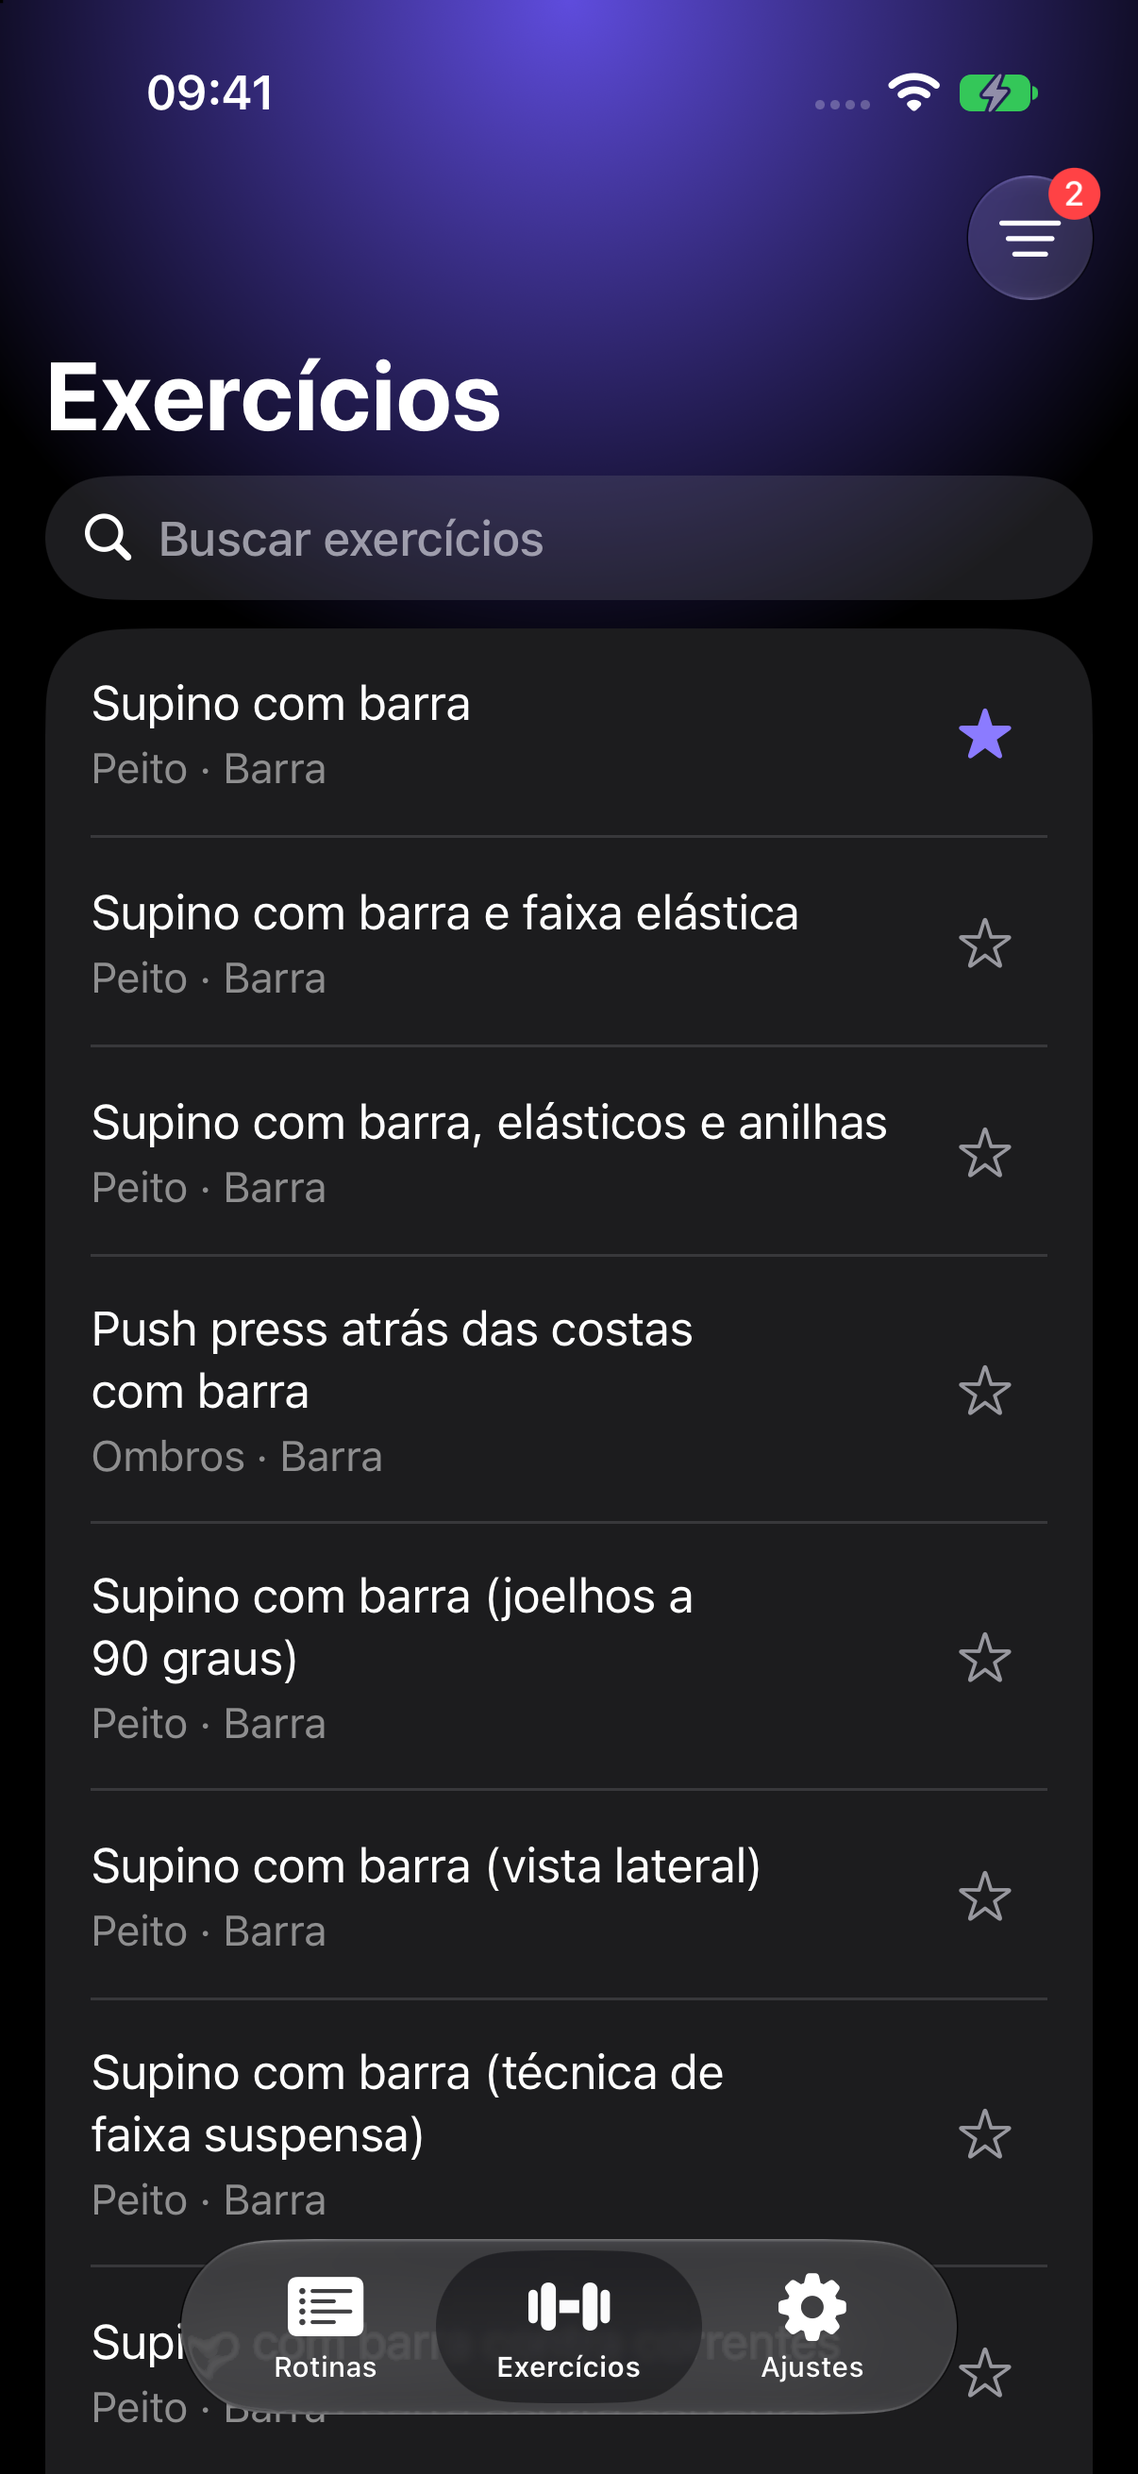
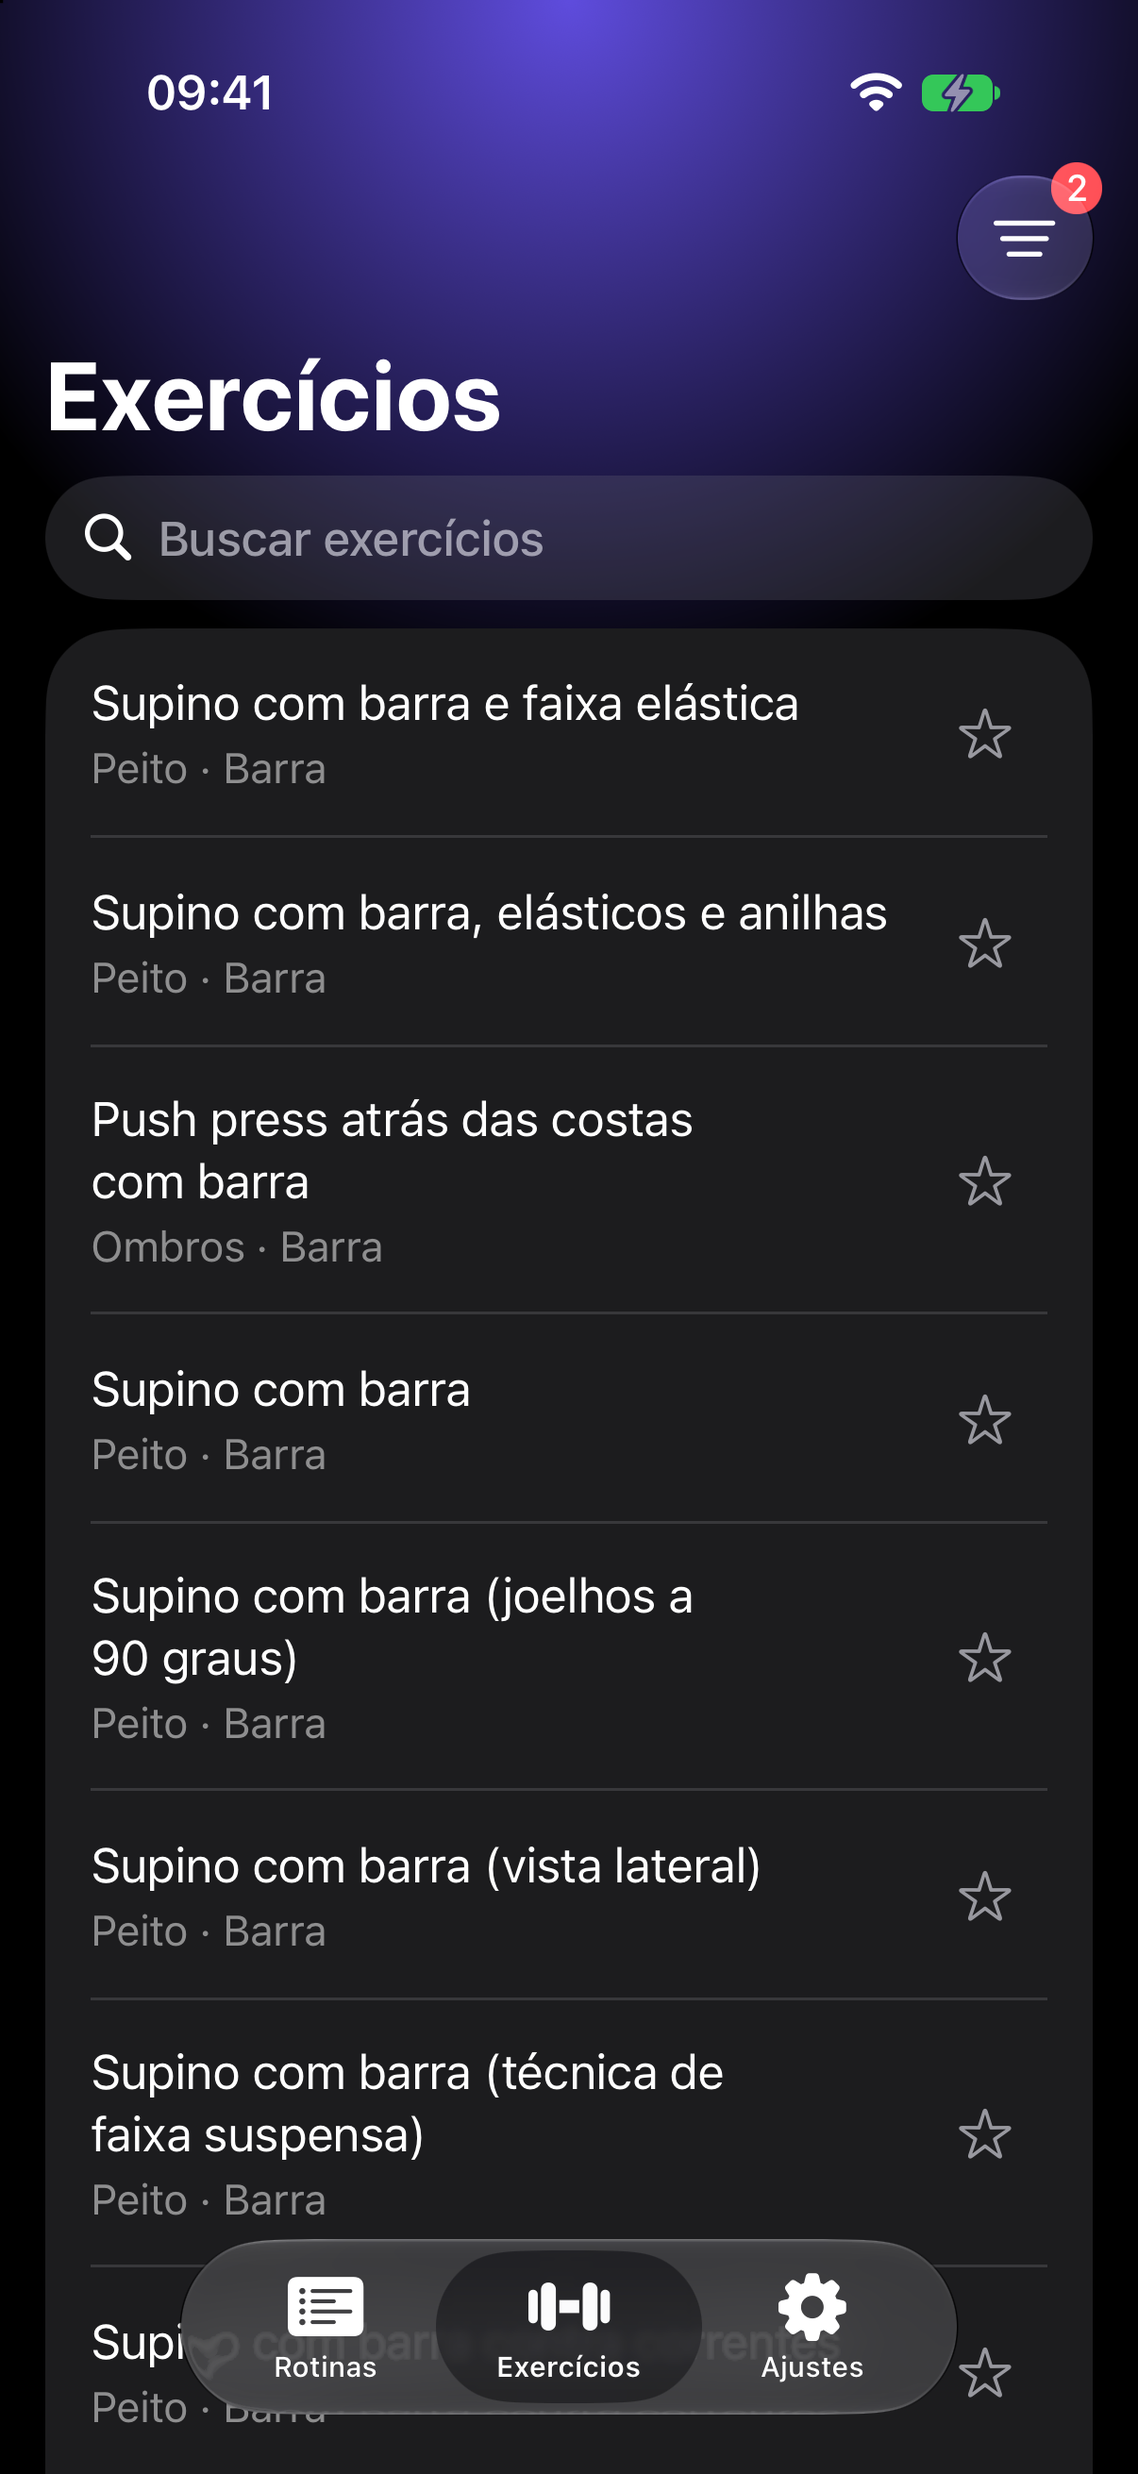
Os filtros falam a contagem ao VoiceOver
O selo do botão dos filtros agora é desenhado no app, no vermelho do
sistema e fora da acessibilidade: o .badge da Apple tomava o valor do
botão, e o VoiceOver ouvia "Filtros, 2 itens". O botão diz "Nenhum filtro
ligado", "Um filtro ligado" ou "2 filtros ligados", com o texto pronto no
LibraryModel e preso no teste.

Uma estrela tocada fica como a pessoa deixou até o catálogo de depois da
ação dela chegar: o refresh() de uma estrela anterior, lido antes, não a
apaga mais. Um teste novo prende isso.

Os exemplos do botão de barra passam a dizer "Pronto" no comentário do
HexGymApp e no cores.md, e o print 04 mostra o selo novo.

A lista em lotes foi medida e ficou de fora: o primeiro toque na aba
custou o mesmo (uns 200 ms no simulador, de montar a tela) e a rolagem
contínua piorou muito a cada lote.

diff --git a/apple/HexGym/Library/LibraryModel.swift b/apple/HexGym/Library/LibraryModel.swift
@@ -15,6 +15,9 @@
 // ação que mudou o documento (o revision do AppModel sobe) pede o catálogo de novo (refresh), para a
 // estrela de um favorito marcado em outra tela aparecer, e a ordem fica a mesma até a próxima busca.
 //
+// Uma estrela tocada fica como a pessoa deixou até a ação dela chegar ao motor e o catálogo de depois
+// chegar (pending): um refresh() que leu o catálogo antes dela não apaga a estrela (QA do PR #112).
+//
 // Escolha recomendada, com a delegação do Lipe de 03/11/2026: a estrela muda na hora e a linha fica
 // onde está; os favoritos sobem para o topo na próxima busca, na próxima troca de filtro ou quando a
 // lista abre de novo, para a linha não pular de baixo do dedo. Os nomes começam com letra maiúscula (o
@@ -49,6 +52,10 @@ import os
     query.muscles.count + query.equipment.count + query.categories.count + (query.favouritesOnly ? 1 : 0)
   }
 
+  // O valor do botão dos filtros para o VoiceOver, pronto: "Nenhum filtro ligado", "Um filtro ligado",
+  // "2 filtros ligados".
+  var filtersValue: String { LibraryText.filtersOn(activeFilterCount, locale: locale) }
+
   // O revision do documento, lido pela tela para pedir o catálogo de novo depois de uma ação.
   var documentRevision: Int { revision() }
 
@@ -66,6 +73,17 @@ import os
   @ObservationIgnored private var catalogueGeneration = 0
   // O catálogo já chegou uma vez. Antes dele, uma busca pedida espera o load(), que busca o de agora.
   @ObservationIgnored private var hasCatalogue = false
+  // As estrelas tocadas cuja ação ainda não chegou ao catálogo: o valor que a pessoa deixou, o toque
+  // (para um segundo toque na mesma estrela valer sobre o primeiro) e, depois da ação, o catálogo pedido
+  // por último até ali. Um catálogo pedido depois dele já traz a ação, e a estrela sai daqui.
+  @ObservationIgnored private var pending: [String: Pending] = [:]
+  @ObservationIgnored private var taps = 0
+
+  private struct Pending {
+    let on: Bool
+    let tap: Int
+    var doneAt: Int?
+  }
 
   private static let logger = Logger(subsystem: "app.hexgym", category: "library")
 
@@ -131,13 +149,20 @@ import os
     }
   }
 
-  // A estrela muda na hora; se a ação falhar, ela volta, e o erro vai para o log.
+  // A estrela muda na hora; se a ação falhar, ela volta, e o erro vai para o log. Até o catálogo de
+  // depois da ação chegar, a estrela fica como a pessoa deixou (pending).
   func toggleFavourite(_ id: String) async {
     guard let row = rows[id] else { return }
+    taps += 1
+    let tap = taps
+    pending[id] = Pending(on: !row.favourite, tap: tap)
     replace(row.favouriting(!row.favourite))
     do {
       _ = try await perform(.toggleFavourite(id: id))
+      if pending[id]?.tap == tap { pending[id]?.doneAt = catalogueGeneration }
     } catch {
+      guard pending[id]?.tap == tap else { return }
+      pending[id] = nil
       replace(row)
       Self.logger.error("não deu para favoritar (\(String(describing: type(of: error)), privacy: .public)): \(String(describing: error), privacy: .private)")
     }
@@ -154,7 +179,15 @@ import os
       let facets = try await engine.facets()
       let built = await LibraryBuild.make(list, facets: facets, text: LibraryText(locale: locale), language: language)
       guard mine == catalogueGeneration else { return }
-      (summaries, rows, options) = (built.summaries, built.rows, built.options)
+      var fresh = built.rows
+      for (id, star) in pending {
+        if let done = star.doneAt, mine > done {
+          pending[id] = nil
+        } else {
+          fresh[id] = fresh[id]?.favouriting(star.on)
+        }
+      }
+      (summaries, rows, options) = (built.summaries, fresh, built.options)
       hasCatalogue = true
     } catch {
       guard mine == catalogueGeneration else { return }
@@ -257,6 +290,15 @@ nonisolated struct LibraryText: Sendable {
 
   @MainActor init(locale: Locale) {
     favourite = AppText.text("favorite", locale: locale)
+  }
+
+  // O valor do botão dos filtros para o VoiceOver.
+  @MainActor static func filtersOn(_ count: Int, locale: Locale) -> String {
+    switch count {
+    case 0: AppText.text("No filters on", locale: locale)
+    case 1: AppText.text("One filter on", locale: locale)
+    default: String(format: AppText.text("%lld filters on", locale: locale), locale: locale, count)
+    }
   }
 }
 

diff --git a/apple/HexGym/Library/LibraryView.swift b/apple/HexGym/Library/LibraryView.swift
@@ -10,12 +10,16 @@
 //
 // Para a rolagem dos 5.632 (seção 8.13): a List é preguiçosa, as linhas não têm imagem nem conta no
 // body, e cada linha é uma view só, de tipo fixo (ExerciseRow), para a List não montar todas para
-// contar. O fundo da pilha fica transparente, para o brilho da raiz aparecer atrás, como nos Ajustes.
+// contar. Mostrar em lotes (como o shown da Library.jsx do openGym) foi medido no QA do PR #112 e não
+// entrou: o primeiro toque na aba custou o mesmo (uns 200 ms no simulador, de montar a tela, e não as
+// linhas), e a rolagem contínua piorou muito a cada lote que entrava. O fundo da pilha fica
+// transparente, para o brilho da raiz aparecer atrás, como nos Ajustes.
 //
 // Escolha recomendada, com a delegação do Lipe de 03/11/2026: a escolha 6 do plano (sem miniatura, o
 // nome, o grupo principal e o equipamento, os favoritos primeiro), a contagem dos filtros no selo do
 // botão, e o deslizar para favoritar no índigo do sistema, onde o texto branco do botão é legível em
-// todos os temas.
+// todos os temas. O selo é desenhado aqui, e não o .badge da Apple: o .badge vira o valor do botão
+// para o VoiceOver ("Filtros, 2 itens") por cima do nosso ("2 filtros ligados") (QA do PR #112).
 import HexDesign
 import HexEngine
 import SwiftUI
@@ -26,7 +30,6 @@ struct LibraryView: View {
   var selection: Binding<[String]>? = nil
   var onAdd: (([String]) -> Void)? = nil
 
-  @Environment(\.locale) private var locale
   @State private var showsFilters = false
   // O que os argumentos de início pedem roda uma vez só, mesmo que a aba volte.
   @State private var ranLaunch = false
@@ -74,10 +77,16 @@ struct LibraryView: View {
   @ToolbarContentBuilder private var toolbar: some ToolbarContent {
     ToolbarItem(placement: .topBarTrailing) {
       Button { showsFilters = true } label: {
-        Label("Filters", systemImage: "line.3.horizontal.decrease")
+        // Um ZStack, e não um Label: com Label ou Image, a barra desenha só o símbolo e perde o selo.
+        ZStack {
+          Image(systemName: "line.3.horizontal.decrease")
+            .overlay(alignment: .topTrailing) {
+              if model.activeFilterCount > 0 { FilterBadge(count: model.activeFilterCount) }
+            }
+        }
       }
-      .badge(model.activeFilterCount)
-      .accessibilityValue(Text(verbatim: LibraryText.filtersOn(model.activeFilterCount, locale: locale)))
+      .accessibilityLabel(Text("Filters"))
+      .accessibilityValue(Text(verbatim: model.filtersValue))
     }
     if let selection {
       ToolbarItem(placement: .confirmationAction) {
@@ -163,15 +172,25 @@ struct LibraryView: View {
   }
 }
 
-extension LibraryText {
-  // O valor do botão dos filtros para o VoiceOver: "Nenhum filtro ligado", "Um filtro ligado", "2
-  // filtros ligados".
-  static func filtersOn(_ count: Int, locale: Locale) -> String {
-    switch count {
-    case 0: AppText.text("No filters on", locale: locale)
-    case 1: AppText.text("One filter on", locale: locale)
-    default: String(format: AppText.text("%lld filters on", locale: locale), locale: locale, count)
-    }
+// O selo da contagem no botão dos filtros, no desenho do .badge da Apple: o número em branco no
+// vermelho do sistema, crescendo com o tamanho do texto. Fica fora da acessibilidade: o botão diz a
+// contagem no valor dele.
+private struct FilterBadge: View {
+  let count: Int
+  @ScaledMetric(relativeTo: .footnote) private var size: CGFloat = 18
+
+  var body: some View {
+    Text(count, format: .number)
+      .font(.footnote.weight(.medium))
+      .monospacedDigit()
+      .foregroundStyle(.white)
+      .padding(.horizontal, size / 4)
+      .frame(minWidth: size, minHeight: size)
+      .background(Capsule().fill(Color(.systemRed)))
+      .fixedSize()
+      // O centro do selo na borda do botão de vidro, em cima à direita, onde o .badge da Apple ficava.
+      .offset(x: size * 0.75, y: -size)
+      .accessibilityHidden(true)
   }
 }
 

diff --git a/apple/HexGymTests/LibraryModelTests.swift b/apple/HexGymTests/LibraryModelTests.swift
@@ -1,9 +1,10 @@
 // Os testes da biblioteca sem tela (Task 9 do plano da fase 2), com o motor de verdade e o documento do
 // primeiro uso em português do Brasil: o catálogo inteiro, a busca "supino", a última busca que vale,
-// a contagem dos filtros, o estado vazio e o rótulo do VoiceOver de uma linha. O teste do rótulo prende
-// o Foco da revisão 5: um nome com 70 letras vai inteiro no rótulo, sem corte. O Foco da revisão 2 (a
-// busca sem acento e nos dois idiomas) é do motor (library.test.mjs); aqui, a busca "supino" passa pelo
-// modelo da tela.
+// a contagem dos filtros (e o valor que o VoiceOver lê no botão), o estado vazio, o rótulo do VoiceOver
+// de uma linha e a estrela que não pisca (a estrela e o valor do botão, do QA do PR #112). O teste do
+// rótulo prende o Foco da revisão 5: um nome com 70 letras vai inteiro no rótulo, sem corte. O Foco da
+// revisão 2 (a busca sem acento e nos dois idiomas) é do motor (library.test.mjs); aqui, a busca
+// "supino" passa pelo modelo da tela.
 //
 // O alvo roda dentro do app (TEST_HOST) e lê os textos do catálogo do app.
 //
@@ -81,9 +82,11 @@ import Testing
   @Test func aChestFilterCountsAsOne() async throws {
     let (model, _) = try await loaded()
     var query = LibraryQuery()
+    #expect(model.filtersValue == "Nenhum filtro ligado")
     query.muscles = ["chest"]
     model.update(query: query)
     #expect(model.activeFilterCount == 1)
+    #expect(model.filtersValue == "Um filtro ligado")
     await model.settled()
     #expect(!model.results.isEmpty)
     #expect(model.results.count < 5632)
@@ -95,6 +98,7 @@ import Testing
     query.favouritesOnly = true
     model.update(query: query)
     #expect(model.activeFilterCount == 4)
+    #expect(model.filtersValue == "4 filtros ligados")
   }
 
   @Test func aSearchWithNoResultLeavesTheEmptyState() async throws {
@@ -122,4 +126,47 @@ import Testing
     let english = LibraryRow(summary, names: names, text: LibraryText(locale: Locale(identifier: "en-US")), language: portuguese)
     #expect(english.spoken.hasSuffix(", Peito, Haltere, favorite"))
   }
+
+  // Duas estrelas tocadas bem depressa: o refresh() da primeira lê o catálogo antes de a ação da segunda
+  // chegar ao motor. A segunda estrela não pode apagar nesse meio tempo.
+  @Test func aSecondStarStaysOnWhileTheFirstRefreshReadsTheCatalogue() async throws {
+    let engine = HexEngine(language: "pt-BR")
+    _ = try await engine.load()
+    _ = try await engine.freshDocument()
+    let box = ModelBox()
+    let model = LibraryModel(engine: engine, locale: portuguese) { action in
+      if case .toggleFavourite(id: "0289") = action, let model = box.model, !box.raced {
+        box.raced = true
+        await model.refresh()
+        #expect(model.row("0289")?.favourite == true)
+        #expect(model.row("0025")?.favourite == true)
+      }
+      return try await engine.apply(action)
+    }
+    box.model = model
+    await model.load()
+    #expect(model.row("0289")?.favourite == false)
+    await model.toggleFavourite("0025")
+    await model.toggleFavourite("0289")
+    #expect(model.row("0289")?.favourite == true)
+    #expect(box.raced)
+    // O catálogo de depois das duas ações traz as duas estrelas do motor.
+    await model.refresh()
+    #expect(model.row("0025")?.favourite == true)
+    #expect(model.row("0289")?.favourite == true)
+    // Um toque de novo apaga, e o catálogo de depois confirma.
+    await model.toggleFavourite("0289")
+    await model.refresh()
+    #expect(model.row("0289")?.favourite == false)
+  }
+}
+
+// O modelo, para a ação do teste da estrela chamar o refresh() dele no meio do caminho.
+@MainActor private final class ModelBox {
+  var model: LibraryModel?
+  var raced = false
+}
+
+private extension LibraryModel {
+  func row(_ id: String) -> LibraryRow? { results.first { $0.id == id } }
 }

diff --git a/apple/HexGym/HexGymApp.swift b/apple/HexGym/HexGymApp.swift
@@ -81,9 +81,9 @@ private struct ThemedRoot<Content: View>: View {
 }
 
 // O tint dos componentes da Apple na raiz: branco. O tint vira a cor do texto dos botões de barra (o
-// "OK" de uma tela que sobe, por exemplo), dos alertas e dos menus, que ficam sobre o vidro das barras
-// (#3A3A3C), onde o accent não é conferido: no QA da PR #85, o "OK" no accent mediu 3,45:1 no
-// Ultravioleta. Pela regra da #71, o texto na cor do tema só fica sobre o fundo da tela e sobre o
+// "Pronto" de uma tela que sobe, por exemplo), dos alertas e dos menus, que ficam sobre o vidro das
+// barras (#3A3A3C), onde o accent não é conferido: no QA da PR #85, esse botão no accent mediu 3,45:1
+// no Ultravioleta. Pela regra da #71, o texto na cor do tema só fica sobre o fundo da tela e sobre o
 // cartão do sistema. O accent entra só onde é pedido: nos componentes do HexDesign, que leem a paleta;
 // nas chaves, pelo HexSwitchStyle abaixo, porque nelas o tint é o preenchimento, e não texto; e onde
 // uma tela o põe de propósito.

diff --git a/docs/hexgym/design-system/cores.md b/docs/hexgym/design-system/cores.md
@@ -46,7 +46,7 @@ Esta é a regra de uso da #71, com ou sem alto contraste:
 - O texto na cor do tema (`accent`) fica **só sobre o fundo da tela e sobre o cartão do sistema**: #1C1C1E, ou #242426 com Aumentar Contraste.
 - Os cartões dentro de uma tela que sobe de baixo (o cinza elevado do sistema) levam **texto branco ou nos cinzas do sistema**, nunca na cor do tema.
 - No cartão de vidro, o texto vai só em branco: no simulador, o cinza secundário do sistema ficou em 3,1 a 3,2:1 sobre o vidro, e o branco fica em pelo menos 8,54:1 nos quatro temas, no pior pixel do vidro (o Giz & Ferro, sob o brilho; veja [componentes.md](componentes.md#o-cartão-de-vidro)).
-- Os botões de barra (o "OK" de uma tela que sobe, por exemplo), os alertas e os menus ficam em branco: o app põe o tint branco na raiz, e o accent só onde é pedido (as chaves, os componentes do HexDesign). O "OK" no accent, sobre o vidro da barra (#3A3A3C), mediu 3,45:1 no Ultravioleta; em branco, mede pelo menos 11,16:1, e 16,28:1 com Aumentar Contraste, nos quatro temas.
+- Os botões de barra (o "Pronto" de uma tela que sobe, por exemplo), os alertas e os menus ficam em branco: o app põe o tint branco na raiz, e o accent só onde é pedido (as chaves, os componentes do HexDesign). Esse botão no accent, sobre o vidro da barra (#3A3A3C), mediu 3,45:1 no Ultravioleta; em branco, mede pelo menos 11,16:1, e 16,28:1 com Aumentar Contraste, nos quatro temas.
 - No Watch, a linha da lista do sistema (#222223, ou #272728 com Aumentar Contraste) não é um desses fundos. Por isso, na galeria do Watch, os componentes ficam sobre o preto, sem o fundo da linha, e o texto das linhas fica em branco (pelo menos 15,90:1, e 14,92:1 com Aumentar Contraste). A exceção é o preenchimento das chaves liga e desliga, que não é texto: no destaque, contra a linha, mediu pelo menos 5,77:1 (Ultravioleta) e 6,77:1 com Aumentar Contraste (Cobre). No Giz & Ferro, o botão branco da chave fica sobre o preenchimento #F2EFE9: é o desenho da Apple.
 - O título da navegação no Watch: o cinza do sistema ficava em 2,9:1 sobre o brilho, e por isso a galeria do Watch põe o título em branco: no alto da galeria, pelo menos 7,59:1, e 14,20:1 com Aumentar Contraste. Quando a lista rola por baixo da barra do sistema, o conteúdo que passa atrás do título pode baixar o contraste até 2,86:1 (3,81:1 com Aumentar Contraste), no pior pixel. É o desenho da barra do Watch, que esmaece o que passa por baixo.
 
